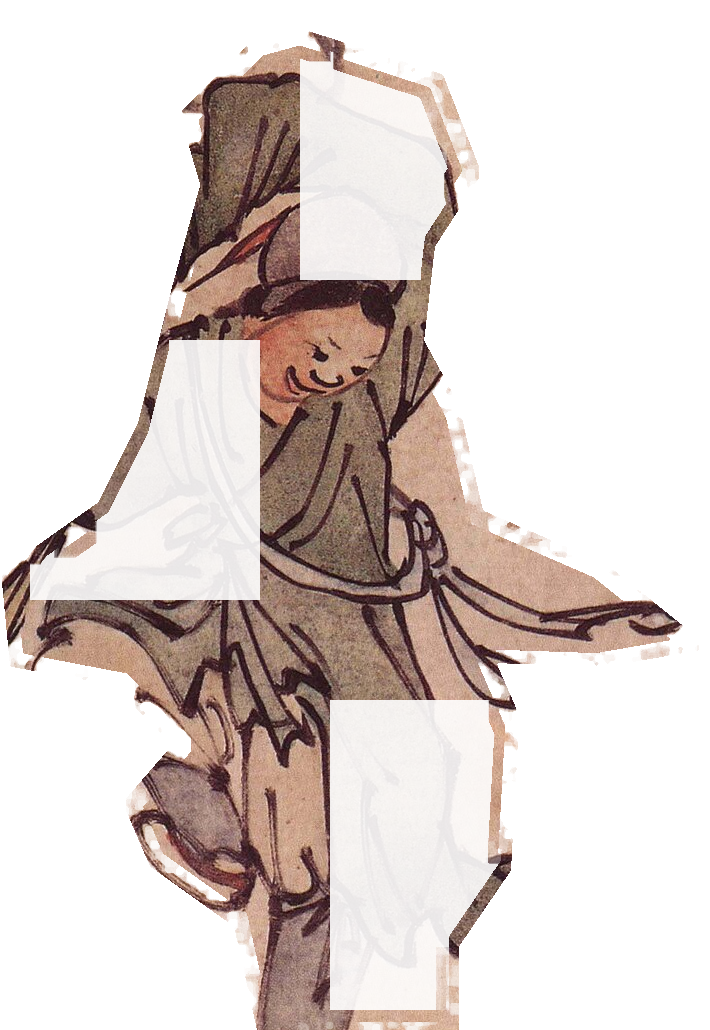
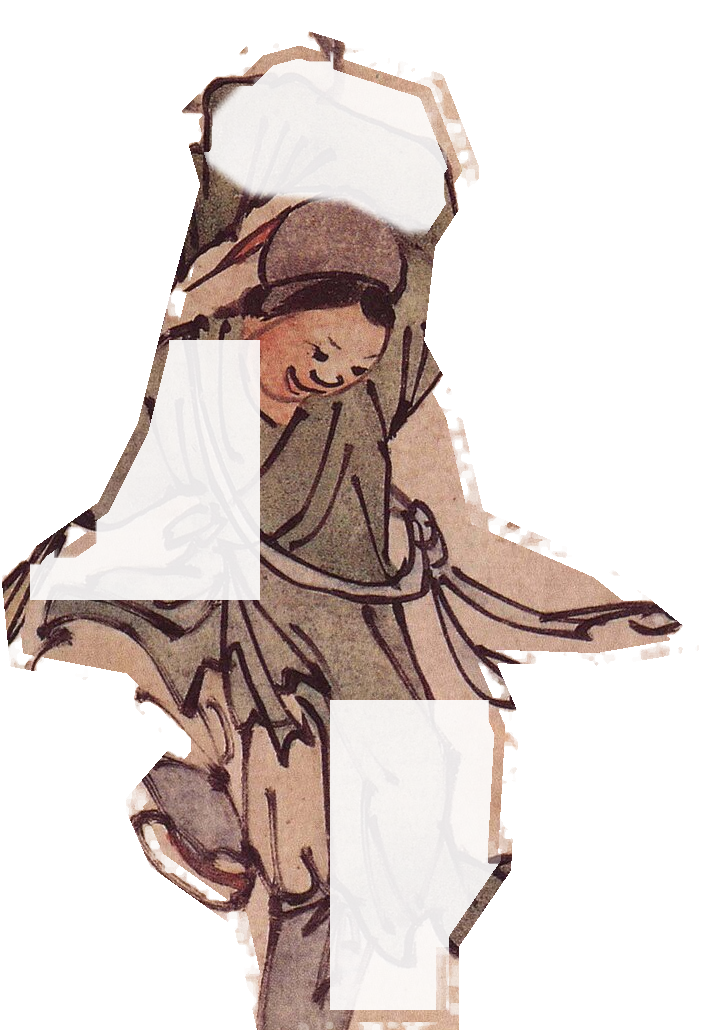
무동 오른소매 복구, 머리 제외 마스크

Changed region(s): [[0.2789, 0.0621, 0.6197, 0.2796]]

diff --git a/src/views/MinhwaHomeView.vue b/src/views/MinhwaHomeView.vue
@@ -94,7 +94,7 @@ const chapters = [
         idle: 'sway',
         z: 3,
         parts: [
-          { src: cut('mudong_sleeve_r'), left: '42.3%', top: '3.9%', w: '31%', anim: 'p-flutter', origin: '10% 85%' },
+          { src: cut('mudong_sleeve_r'), left: '23.9%', top: '1.9%', w: '50.7%', anim: 'p-flutter', origin: '76% 77%' },
           { src: cut('mudong_sleeve_l'), left: '4.2%', top: '33%', w: '32.4%', anim: 'p-flutter-b', origin: '85% 20%' },
           { src: cut('mudong_leg'), left: '46.5%', top: '68%', w: '32.4%', anim: 'p-kick', origin: '50% 8%' },
         ],
